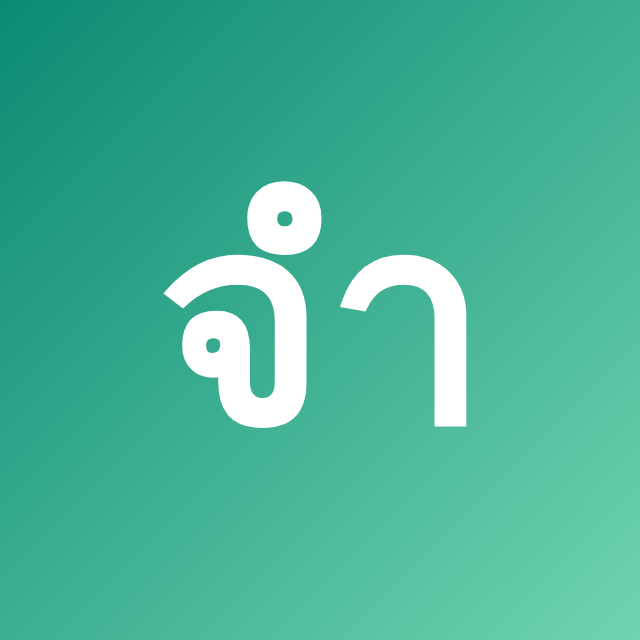
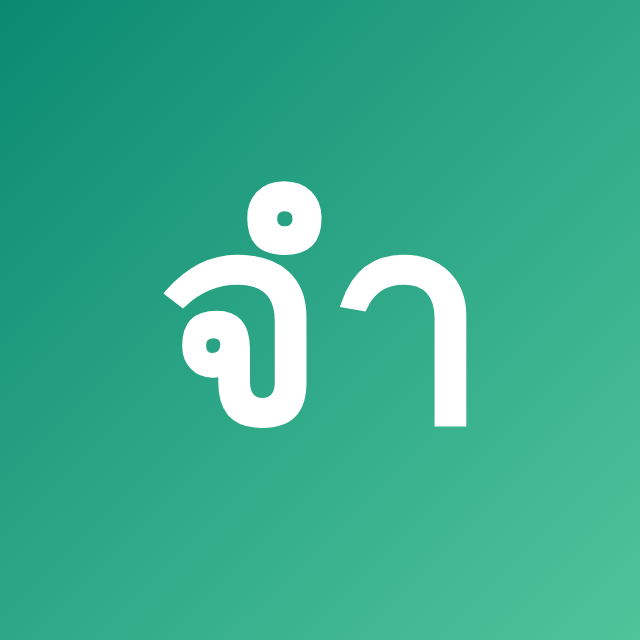
ใช้ไล่สีแบบ A — ปลายเป็น #4fc49b
Claude-Session: https://claude.ai/code/session_01M7tvfzcRoyzy7X7Yh9MoMw

Changed region(s): [[0.5312, 0.5312, 1.0, 1.0]]

diff --git a/tools/brand/richmenu.html b/tools/brand/richmenu.html
@@ -4,7 +4,7 @@
   :root {
     /* ไล่สีทแยงมุม เขียวอมฟ้าเข้มไปเขียวมิ้นต์อ่อน — ชุดเดียวกับไอคอนในแชท */
     --teal: #0b8a72;
-    --green: #6fd3b0;
+    --green: #4fc49b;
     --ink: #16211b;
     --ink-2: #5d6b64;
     --line: #e2e8e3;
@@ -37,7 +37,7 @@
 
 <div class="cell lead">
   <svg class="ico" viewBox="0 0 96 96" fill="none" stroke="url(#g1)" stroke-width="6.5"
-       stroke-linecap="round" stroke-linejoin="round"><defs><linearGradient id="g1" x1="0" y1="0" x2="1" y2="1"><stop offset="0" stop-color="#0b8a72"/><stop offset="1" stop-color="#6fd3b0"/></linearGradient></defs>
+       stroke-linecap="round" stroke-linejoin="round"><defs><linearGradient id="g1" x1="0" y1="0" x2="1" y2="1"><stop offset="0" stop-color="#0b8a72"/><stop offset="1" stop-color="#4fc49b"/></linearGradient></defs>
     <path d="M22 36h10l6-8h20l6 8h10a6 6 0 0 1 6 6v28a6 6 0 0 1-6 6H22a6 6 0 0 1-6-6V42a6 6 0 0 1 6-6z"/>
     <circle cx="48" cy="56" r="13"/>
   </svg>
@@ -46,7 +46,7 @@
 
 <div class="cell">
   <svg class="ico" viewBox="0 0 96 96" fill="none" stroke="url(#g2)" stroke-width="6.5"
-       stroke-linecap="round" stroke-linejoin="round"><defs><linearGradient id="g2" x1="0" y1="0" x2="1" y2="1"><stop offset="0" stop-color="#0b8a72"/><stop offset="1" stop-color="#6fd3b0"/></linearGradient></defs>
+       stroke-linecap="round" stroke-linejoin="round"><defs><linearGradient id="g2" x1="0" y1="0" x2="1" y2="1"><stop offset="0" stop-color="#0b8a72"/><stop offset="1" stop-color="#4fc49b"/></linearGradient></defs>
     <path d="M34 16h22l14 14v48a6 6 0 0 1-6 6H34a6 6 0 0 1-6-6V22a6 6 0 0 1 6-6z"/>
     <path d="M56 16v14h14"/>
     <path d="M40 54h18M40 66h12"/>
@@ -56,7 +56,7 @@
 
 <div class="cell">
   <svg class="ico" viewBox="0 0 96 96" fill="none" stroke="url(#g3)" stroke-width="6.5"
-       stroke-linecap="round" stroke-linejoin="round"><defs><linearGradient id="g3" x1="0" y1="0" x2="1" y2="1"><stop offset="0" stop-color="#0b8a72"/><stop offset="1" stop-color="#6fd3b0"/></linearGradient></defs>
+       stroke-linecap="round" stroke-linejoin="round"><defs><linearGradient id="g3" x1="0" y1="0" x2="1" y2="1"><stop offset="0" stop-color="#0b8a72"/><stop offset="1" stop-color="#4fc49b"/></linearGradient></defs>
     <path d="M24 26h48a7 7 0 0 1 7 7v26a7 7 0 0 1-7 7H46L30 80V66h-6a7 7 0 0 1-7-7V33a7 7 0 0 1 7-7z"/>
   </svg>
   <div class="label">คุยกับคน</div>

diff --git a/tools/brand/icon-b.html b/tools/brand/icon-b.html
@@ -20,7 +20,7 @@
   */
   .glyph {
     font-size: 290px; font-weight: 600;
-    background: linear-gradient(135deg, #0b8a72 0%, #6fd3b0 100%);
+    background: linear-gradient(135deg, #0b8a72 0%, #4fc49b 100%);
     -webkit-background-clip: text; background-clip: text; color: transparent;
     line-height: 1; letter-spacing: -.02em;
     transform: translateY(14px);

diff --git a/tools/brand/icon.html b/tools/brand/icon.html
@@ -9,7 +9,7 @@
   body {
     width: 640px; height: 640px;
     display: flex; align-items: center; justify-content: center;
-    background: linear-gradient(135deg, #0b8a72 0%, #6fd3b0 100%);
+    background: linear-gradient(135deg, #0b8a72 0%, #4fc49b 100%);
     font-family: 'Noto Sans Thai', sans-serif;
     -webkit-font-smoothing: antialiased;
   }

diff --git a/tools/icons.py b/tools/icons.py
@@ -14,7 +14,7 @@ import cairosvg
 # ไล่สีทแยงมุม เขียวอมฟ้าเข้มไปเขียวมิ้นต์อ่อน — ตัวเดียวกันทุกไอคอน
 # ไล่สีคนละองศาในแต่ละไอคอน จะทำให้ชุดดูไม่เป็นชุดเดียวกันทันที
 TEAL = "#0B8A72"
-GREEN = "#6FD3B0"
+GREEN = "#4FC49B"
 W = 8  # เส้นหนา 8 ที่ 96px = 2px ตอนแสดงจริง
 
 HEAD = (
